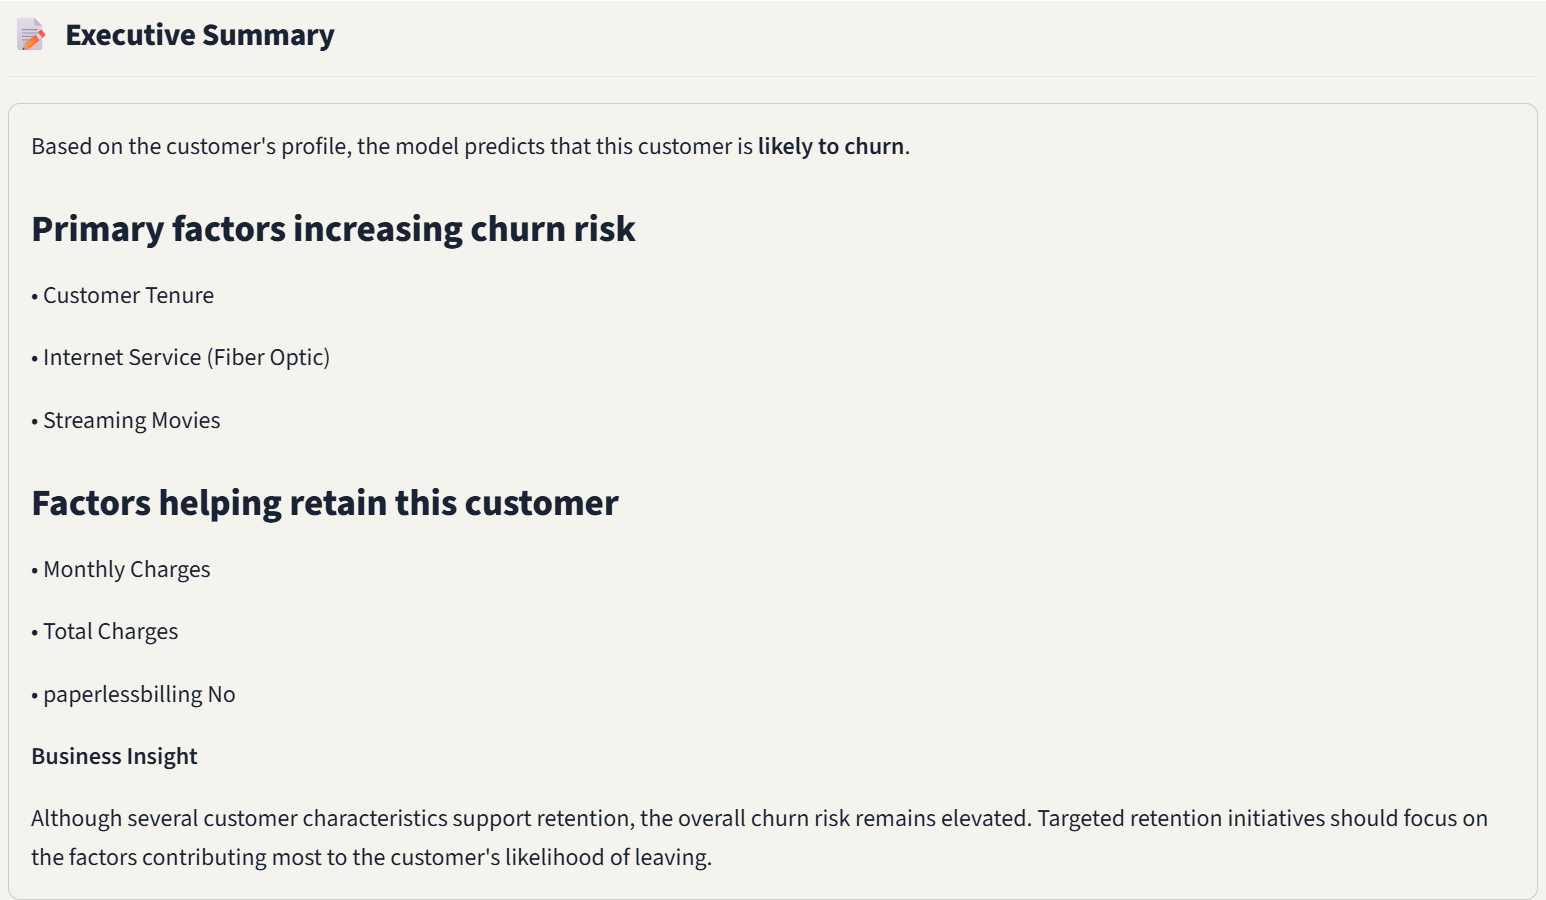
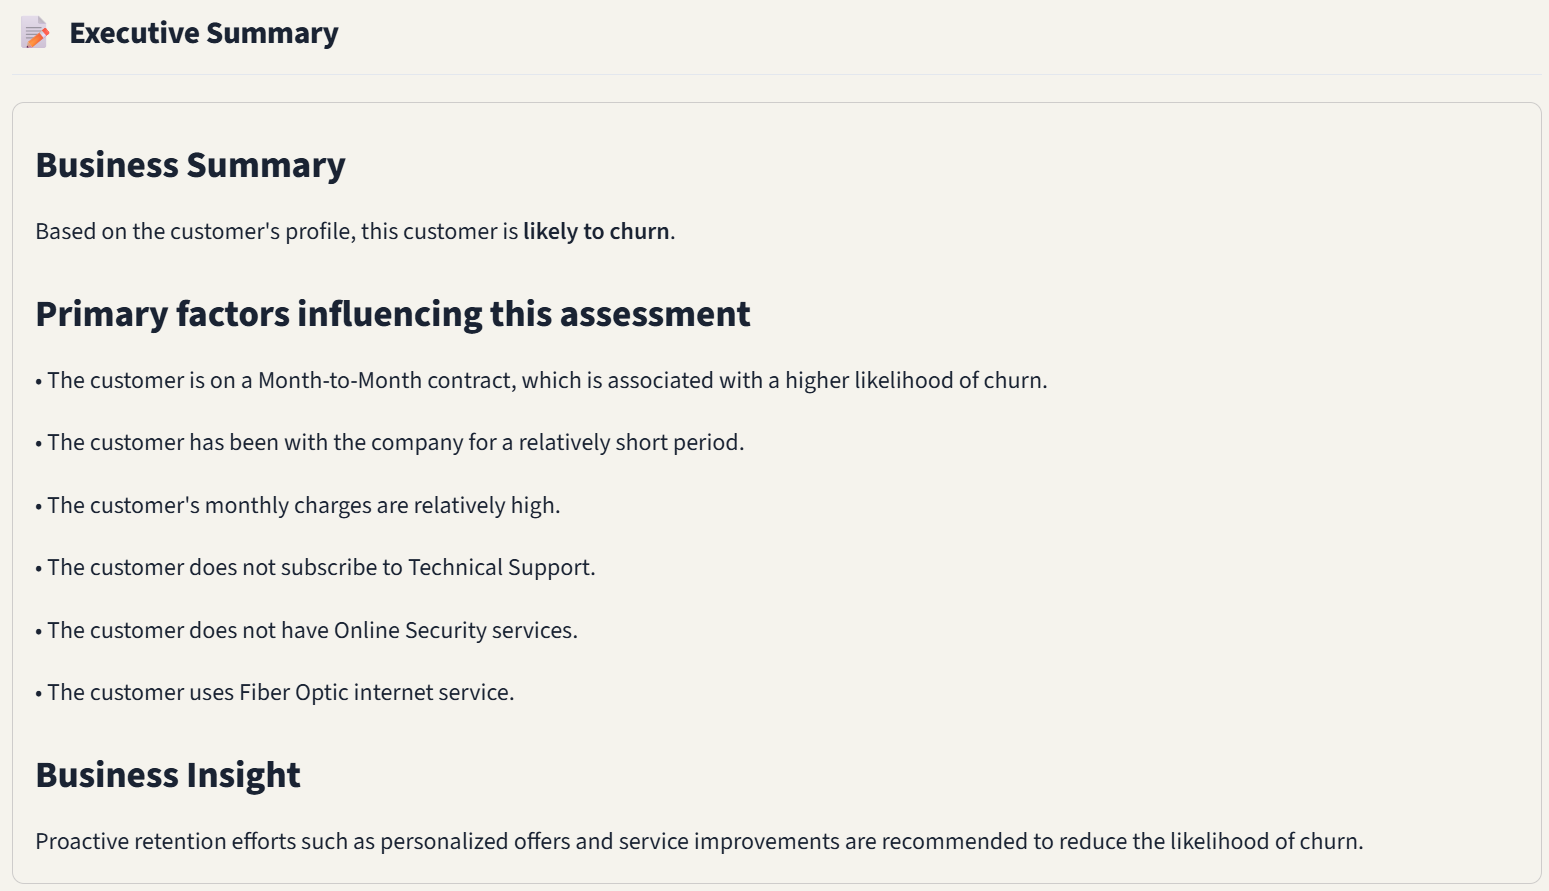
Enhance business insights and improve application interface

diff --git a/app.py b/app.py
@@ -865,14 +865,11 @@ if predict:
     shap_df["Feature"] = shap_df["Feature"].replace(feature_mapping)
 
     top10 = shap_df.head(10)
-
     st.markdown(
         '<div class="section-eyebrow" style="margin-top:1.8rem;"><span class="section-eyebrow-icon">📝</span>Executive Summary</div>',
         unsafe_allow_html=True
     )
 
-    top_positive = top10[top10["SHAP Value"] > 0]["Feature"].head(3).tolist()
-    top_negative = top10[top10["SHAP Value"] < 0]["Feature"].head(3).tolist()
 
     # NOTE: using a real st.container(border=True) here (instead of a raw
     # markdown <div> spanning multiple st calls) is what fixes the empty
@@ -883,56 +880,112 @@ if predict:
 
         if prediction == "Yes":
 
-            st.markdown(
-                f"""
-                Based on the customer's profile, the model predicts that this customer is **likely to churn**.
+            churn_reasons = []
 
-                ### Primary factors increasing churn risk
-                • {top_positive[0] if len(top_positive) > 0 else "N/A"}
-
-                • {top_positive[1] if len(top_positive) > 1 else "N/A"}
-
-                • {top_positive[2] if len(top_positive) > 2 else "N/A"}
-
-                ### Factors helping retain this customer
-                • {top_negative[0] if len(top_negative) > 0 else "N/A"}
-
-                • {top_negative[1] if len(top_negative) > 1 else "N/A"}
-
-                • {top_negative[2] if len(top_negative) > 2 else "N/A"}
-
-                **Business Insight**
-
-                Although several customer characteristics support retention, the overall churn risk remains elevated. Targeted retention initiatives should focus on the factors contributing most to the customer's likelihood of leaving.
-                """
+            if contract == "Month-to-month":
+                churn_reasons.append(
+                    "• The customer is on a Month-to-Month contract, which is associated with a higher likelihood of churn."
                 )
+
+            if tenure < 12:
+                churn_reasons.append(
+                    "• The customer has been with the company for a relatively short period."
+                )
+
+            if monthly_charges >= 80:
+                churn_reasons.append(
+                    "• The customer's monthly charges are relatively high."
+                )
+
+            if tech_support == "No":
+                churn_reasons.append(
+                    "• The customer does not subscribe to Technical Support."
+                )
+
+            if online_security == "No":
+                churn_reasons.append(
+                    "• The customer does not have Online Security services."
+                )
+
+            if internet_service == "Fiber optic":
+                churn_reasons.append(
+                    "• The customer uses Fiber Optic internet service."
+                )
+
+            if len(churn_reasons) == 0:
+                churn_reasons.append(
+                    "• Multiple customer characteristics contributed to this prediction."
+                )
+
+            churn_reasons_text = "\n\n".join(churn_reasons)
+
+            st.markdown(f"""### Business Summary
+
+Based on the customer's profile, this customer is **likely to churn**.
+
+### Primary factors influencing this assessment
+
+{churn_reasons_text}
+
+### Business Insight
+
+Proactive retention efforts such as personalized offers and service improvements are recommended to reduce the likelihood of churn.
+""")
 
         else:
 
-            st.markdown(
-            f"""
-            Based on the customer's profile, the model predicts that this customer is **likely to remain with the company**.
+            retention_reasons = []
 
-            ### Primary factors supporting retention
-            • {top_negative[0] if len(top_negative) > 0 else "N/A"}
+            if contract == "Two year":
+                retention_reasons.append(
+                    "• The customer has a Two-Year contract, which strongly supports long-term retention."
+                )
 
-            • {top_negative[1] if len(top_negative) > 1 else "N/A"}
+            elif contract == "One year":
+                retention_reasons.append(
+                    "• The customer has a One-Year contract, reducing churn risk."
+                )
 
-            • {top_negative[2] if len(top_negative) > 2 else "N/A"}
+            if tenure >= 24:
+                retention_reasons.append(
+                    "• The customer has maintained a long relationship with the company."
+                )
 
-            ### Factors that still increase churn risk
-            • {top_positive[0] if len(top_positive) > 0 else "N/A"}
+            if tech_support == "Yes":
+                retention_reasons.append(
+                    "• The customer benefits from Technical Support services."
+                )
 
-            • {top_positive[1] if len(top_positive) > 1 else "N/A"}
+            if online_security == "Yes":
+                retention_reasons.append(
+                    "• The customer has Online Security services."
+                )
 
-            • {top_positive[2] if len(top_positive) > 2 else "N/A"}
+            if monthly_charges < 80:
+                retention_reasons.append(
+                    "• Monthly charges are within a moderate range."
+                )
 
-            **Business Insight**
+            if len(retention_reasons) == 0:
+                retention_reasons.append(
+                    "• Overall customer characteristics indicate a stable customer relationship."
+                )
 
-            The customer currently shows a strong likelihood of remaining with the company. Maintaining service quality and customer satisfaction should help preserve this positive outlook.
-            """
-            )
+            retention_reasons_text = "\n\n".join(retention_reasons)
 
+            st.markdown(f"""### Business Summary
+
+Based on the customer's profile, this customer is **likely to remain with the company**.
+
+### Primary factors supporting retention
+
+{retention_reasons_text}
+
+### Business Insight
+
+The customer's overall profile indicates a healthy long-term relationship. Continuing to deliver consistent service quality should help maintain customer retention.
+""")
+            
     st.markdown(
         '<div class="section-eyebrow" style="margin-top:1.8rem;"><span class="section-eyebrow-icon">🔍</span>Key Factors Behind This Assessment</div>',
         unsafe_allow_html=True
